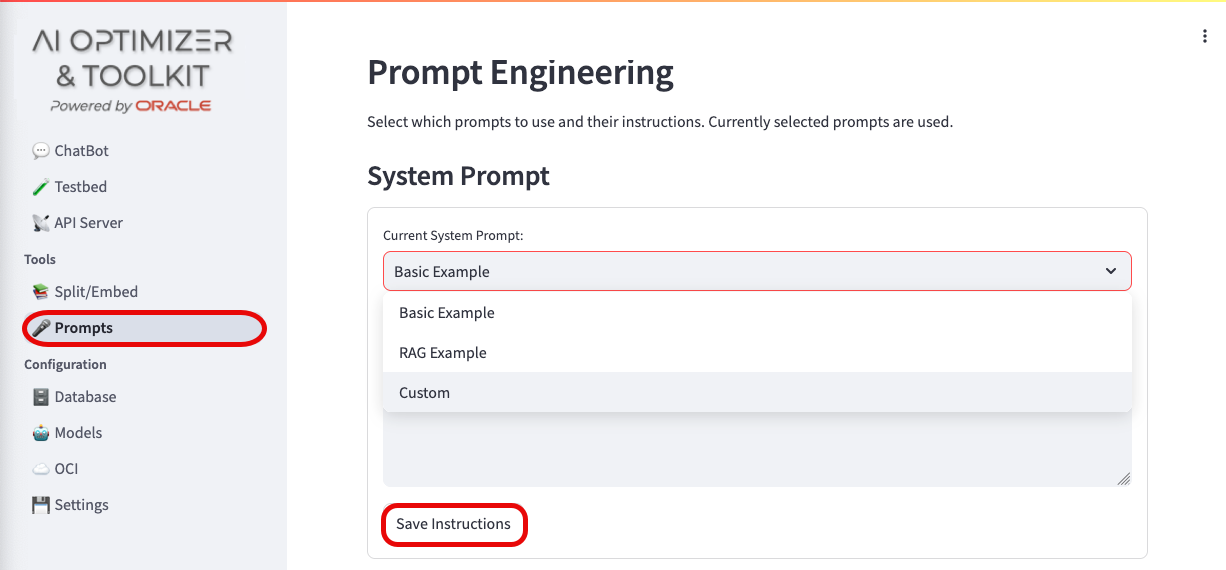
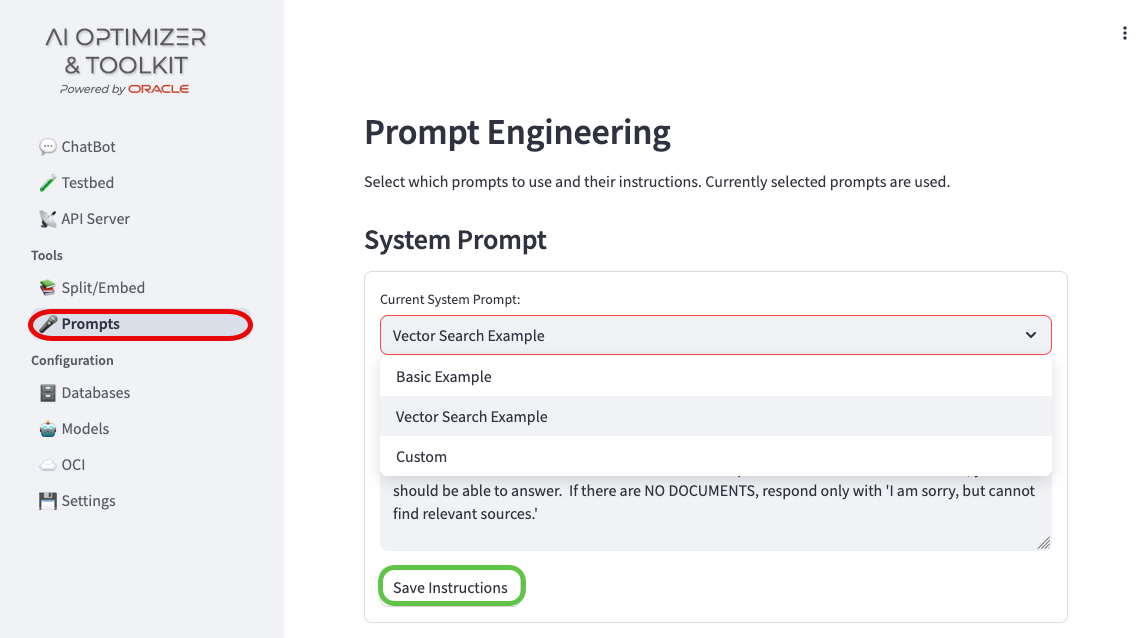
Documentation Updates

diff --git a/docs/content/client/tools/prompt_eng.md b/docs/content/client/tools/prompt_eng.md
@@ -25,7 +25,7 @@ The *System* prompt for non-RAG and RAG will normally provide different instruct
 ![System Prompt](../images/prompt_eng_system.png)
 
 {{% notice style="code" title="Auto Switcher-oo" icon="circle-info" %}}
-When enabling or disabling RAG, the *System* prompt will automatically switch between the **Basic Example** and **RAG Example**.  When the *System* prompt has been set to **Custom**, this auto-switching will be disabled.
+When enabling or disabling Vector Search, the *System* prompt will automatically switch between the **Basic Example** and **Vector Search Example**.  When the *System* prompt has been set to **Custom**, this auto-switching will be disabled.
 {{% /notice %}}
 
 #### Examples of how the *System* prompt can be used:
@@ -54,12 +54,12 @@ When enabling or disabling RAG, the *System* prompt will automatically switch be
 ---
 ## Context Prompt
 
-The *Context* prompt is used when RAG is enabled.  It is used in a "private conversation" with the model, prior to retrieval, to re-phrase the user input.  
+The *Context* prompt is used when Vector Search is enabled.  It is used in a "private conversation" with the model, prior to retrieval, to re-phrase the user input.  
 
 ![Context Prompt](../images/prompt_eng_context.png)
 
-As an example to the importance of the *Context* prompt, if the previous interactions with the model included Oracle documentation topics about vector indexes and the user asks: "Can you give me more details?"; the RAG retrieval process should not search for similar vectors for "Can you give me more details?".  Instead, the user input should be re-phrased and a vector search should be performed on a more contextual relevant phrase, such as: "More details on creating and altering hybrid vector indexes in Oracle Database."
+As an example to the importance of the *Context* prompt, if the previous interactions with the model included Oracle documentation topics about vector indexes and the user asks: "Can you give me more details?"; the Vector Search retrieval process should not search for similar vectors for "Can you give me more details?".  Instead, the user input should be re-phrased and a vector search should be performed on a more contextual relevant phrase, such as: "More details on creating and altering hybrid vector indexes in Oracle Database."
 
-When RAG is enabled, you will see what was generated and used for the vector search in the **Notes:** section under the **References:**
+When Vector Search is enabled, you will see what was generated and used for the vector search in the **Notes:** section under the **References:**
 
 ![System Prompt](../images/chatbot_rephrase.png)

diff --git a/docs/content/client/chatbot/_index.md b/docs/content/client/chatbot/_index.md
@@ -43,14 +43,28 @@ Once you've selected a model, you can change the different model parameters to h
 
 For more details on the parameters, ask the Chatbot or review [Concepts for Generative AI](https://docs.oracle.com/en-us/iaas/Content/generative-ai/concepts.htm).
 
-## Retrieval Augmented Generation (RAG)
+## Toolkit
 
-Once you've created embeddings using [Split/Embed](../tools/split_embed), the option to enable and disable RAG will be available.  Once you've enabled RAG, if you have more than one [Vector Store](#vector-store) you will need select the one you want to work with.
+The {{< short_app_ref >}} provides tools to augment Large Language Models with your proprietary data using Retrieval Augmented Generation (**RAG**), including:
+* [Vector Search](#vector-search) for Unstructured Data
+* [SelectAI](#selectai) for Structured Data
 
-![Chatbot RAG](images/chatbot_rag.png)
+
+## Vector Search
+
+Once you've created embeddings using [Split/Embed](../tools/split_embed), the option use Vector Search will be available. After selecting Vector Search, if you have more than one [Vector Store](#vector-store) you will need select the one you want to work with.
+
+![Chatbot Vector Search](images/chatbot_vs.png)
 
 Choose the type of Search you want performed and the additional parameters associated with that search.
 
-## Vector Store
+### Vector Store
 
-With RAG enabled, if you have more than one Vector Store, you can select which one will be used for searching, otherwise it will default to the only one available.  To choose a different Vector Store, click the "Reset" button to open up the available options.
+With Vector Search selected, if you have more than one Vector Store, you can select which one will be used for searching, otherwise it will default to the only one available.  To choose a different Vector Store, click the "Reset" button to open up the available options.
+
+
+## SelectAI
+
+Once you've [configured SelectAI](https://docs.oracle.com/en-us/iaas/autonomous-database-serverless/doc/select-ai-get-started.html#GUID-E9872607-42A6-43FA-9851-7B60430C21B7), the option to use SelectAI will be available.  After selecting the SelectAI toolkit, a profile and the default narrate option will automatically be selected.  If you have more then one profile, you can choose which one to use.  You can also select different SelectAI actions.
+
+![Chatbot SelectAI](images/chatbot_selectai.png)
